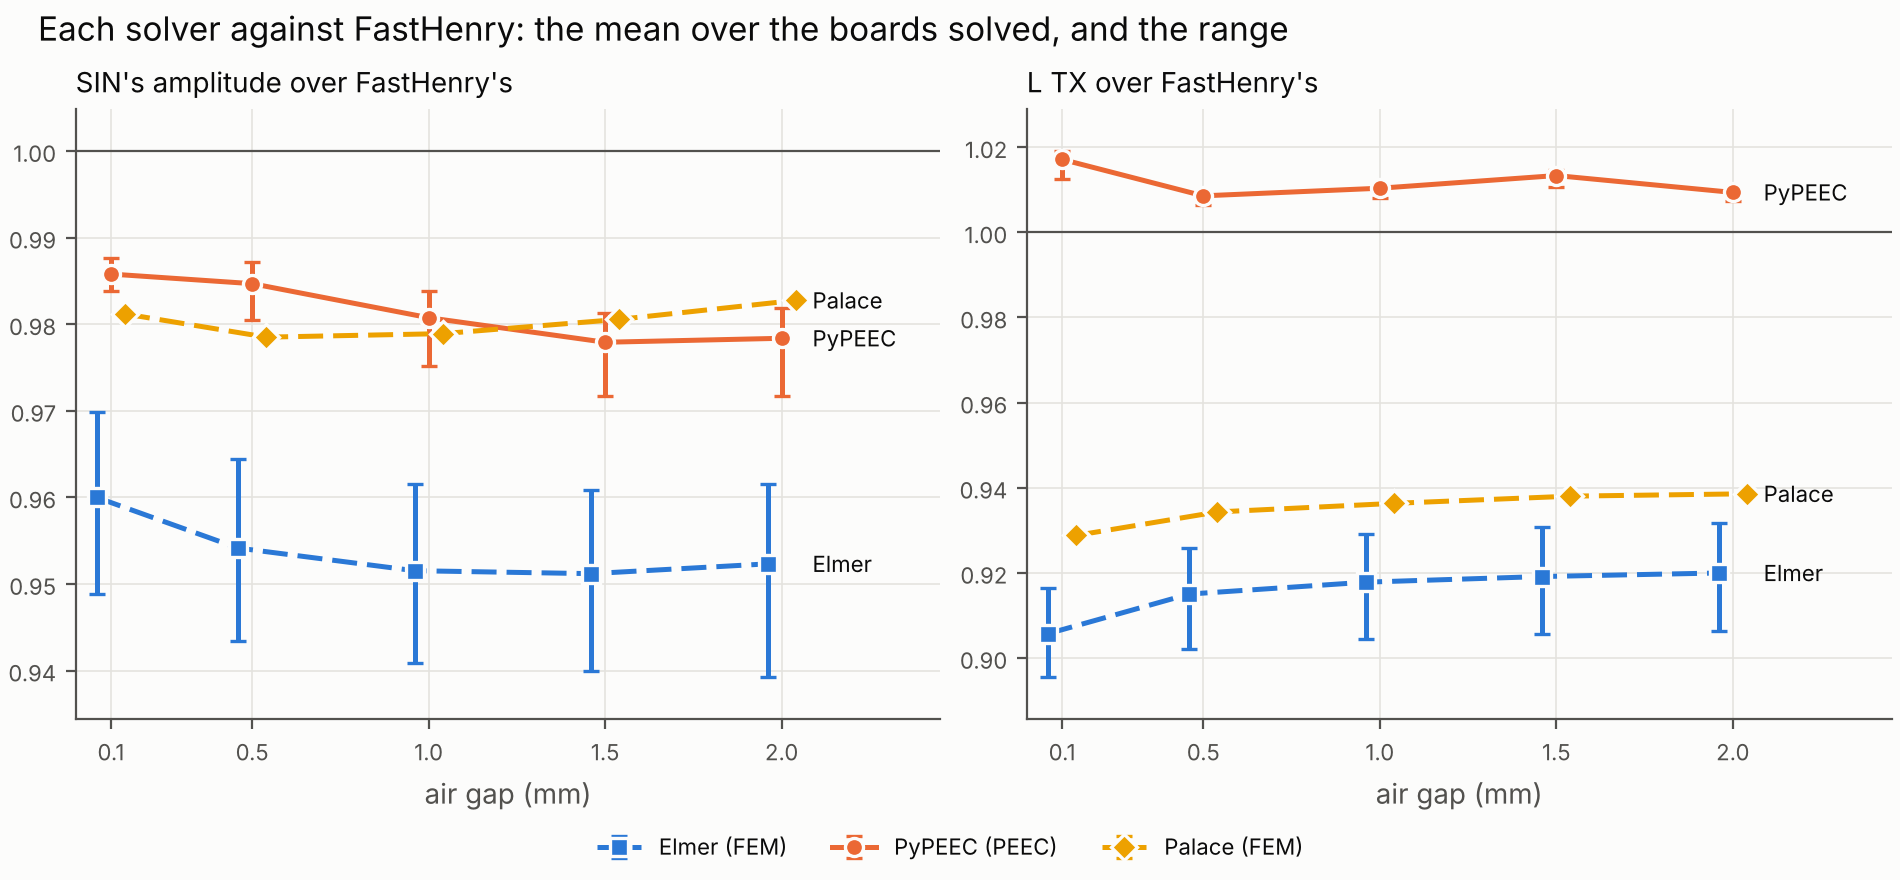
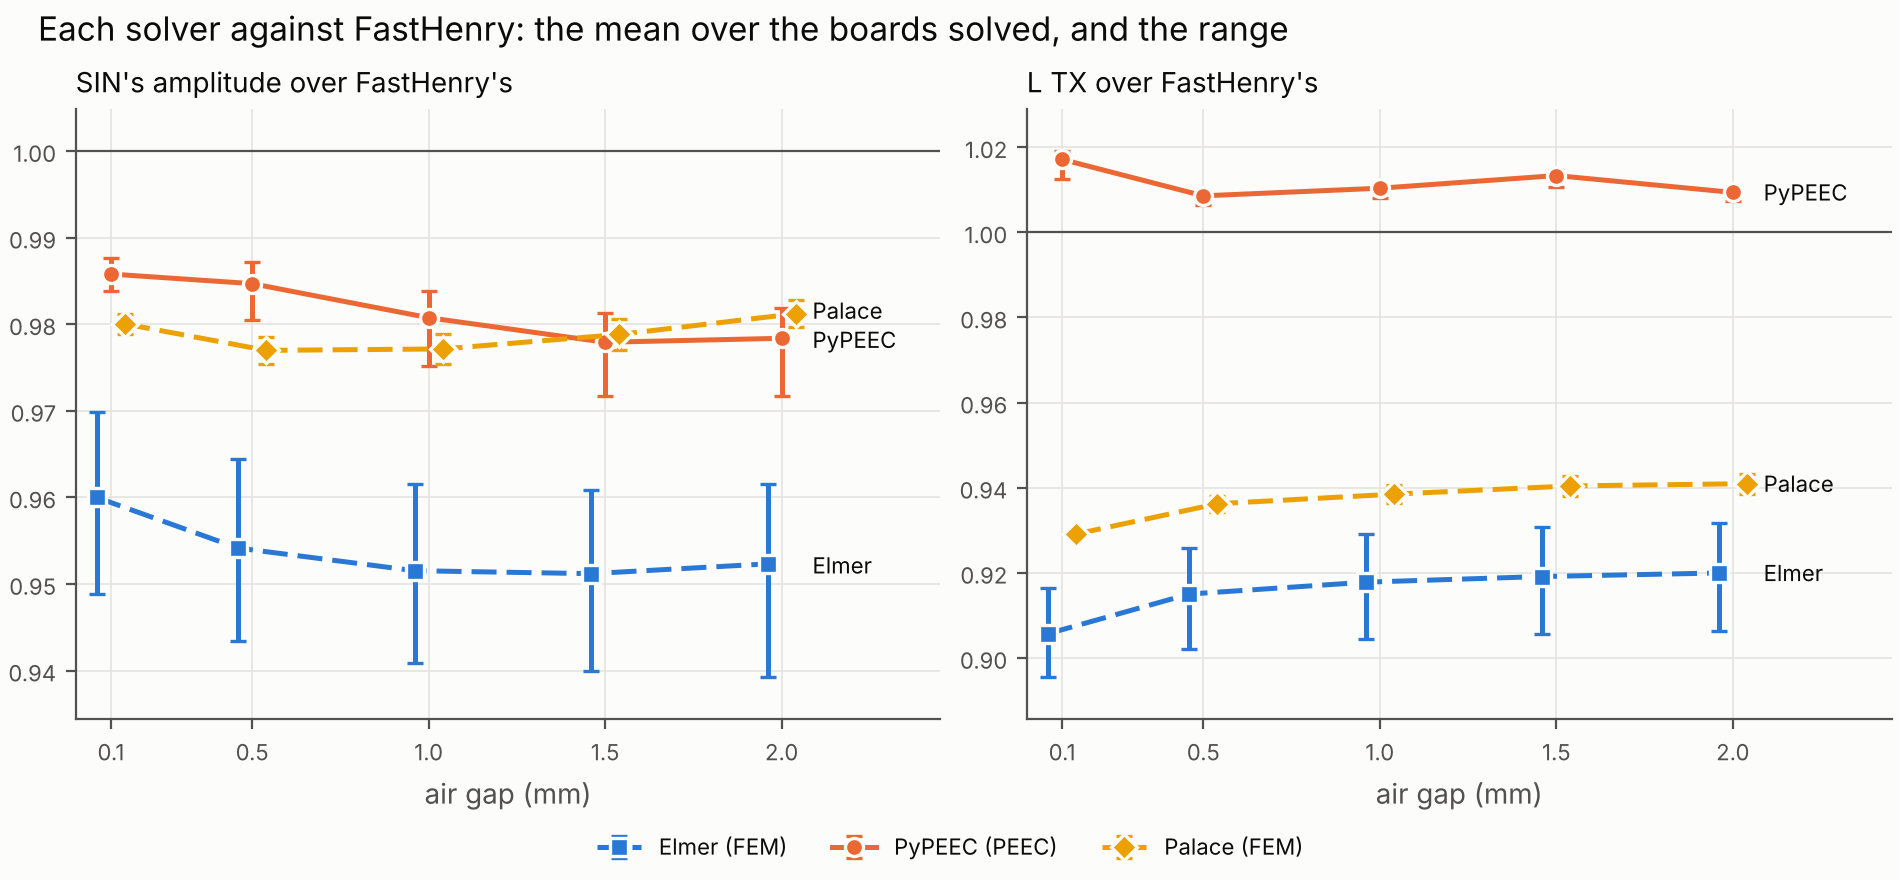
Palace's S0_1x_OD21_2L_tiny_TXtop added

Changed region(s): [[0.5589, 0.5216, 0.9626, 0.6136], [0.0621, 0.3375, 0.4658, 0.4295]]

diff --git a/README.md b/README.md
@@ -7,7 +7,7 @@ KESE exports a KiCad board's copper and stackup for electromagnetic solvers. Fou
 | Elmer | FEM (finite elements, the A-V eddy-current formulation) | `Elmer_Integration` | 6 | 280 | 280 |
 | PyPEEC | PEEC (partial elements on voxels, FFT-accelerated) | `PyPEEC_Integration` | 6 | 280 | 280 |
 | FastHenry | PEEC (partial elements on filaments, direct solve) | `FastHenry_Integration` | 6 | 280 | 280 |
-| Palace | FEM (finite elements, the frequency-domain Maxwell solver) | `Palace_Integration` | 1 (still solving; 5 of 30 gaps) | 40 | 40 |
+| Palace | FEM (finite elements, the frequency-domain Maxwell solver) | `Palace_Integration` | 2 (still solving; 10 of 30 gaps) | 80 | 80 |
 
 Each integration branch keeps its own solver's results, settings and checks, and knows nothing of the others. The numbers here are read from those branches unchanged by `scripts/collect.py`. The two FEM solvers mesh the air around the copper and close it at an outer boundary; the two PEEC solvers model only the copper, and the air's field comes from the free-space formulas, with no mesh and no boundary.
 
@@ -16,7 +16,7 @@ Each integration branch keeps its own solver's results, settings and checks, and
 - **FastHenry is the yardstick.** On the two proof boards it lands within 0.03 % of the reference at 10 kHz, the closest of the four (the table under "The proof boards"). Every ratio below is against FastHenry, board by board and gap by gap.
 - **Elmer** (FEM): the coupling (the amplitude of SIN and COS) is 4.7 % under FastHenry's on average (−6.1 to −3.0 % over the 30 board-gaps both have finished); L TX is 8.4 % under (−10.5 to −6.8 %); the rms angle error is within 0.17° of FastHenry's, 0.05° typically (electrical degrees).
 - **PyPEEC** (PEEC): the coupling (the amplitude of SIN and COS) is 1.9 % under FastHenry's on average (−2.8 to −1.2 % over the 30 board-gaps both have finished); L TX is 1.2 % over (+0.6 to +1.9 %); the rms angle error is within 0.04° of FastHenry's, 0.02° typically (electrical degrees).
-- **Palace** (FEM): the coupling (the amplitude of SIN and COS) is 2.0 % under FastHenry's on average (−2.2 to −1.7 % over the 5 board-gaps both have finished); L TX is 6.5 % under (−7.1 to −6.1 %); the rms angle error is within 0.06° of FastHenry's, 0.02° typically (electrical degrees).
+- **Palace** (FEM): the coupling (the amplitude of SIN and COS) is 2.2 % under FastHenry's on average (−2.5 to −1.7 % over the 10 board-gaps both have finished); L TX is 6.3 % under (−7.1 to −5.7 %); the rms angle error is within 0.06° of FastHenry's, 0.02° typically (electrical degrees).
 
 So the two PEEC solvers agree within about 2 %, and the angle error, which is what a position sensor is for, agrees best of all: it is set by the coils' shapes, which every solver sees alike. The FEM solvers read the coupling and L TX low on the meshes they were run with, by an amount that shrinks as the mesh is refined ("Why they differ" below).
 
@@ -43,31 +43,31 @@ Each solver's value over FastHenry's on the same board and gap: the mean over th
 
 | Air gap | Elmer | PyPEEC | Palace |
 |---|---|---|---|
-| 0.1 mm | 0.960 (0.949 to 0.970) | 0.986 (0.984 to 0.988) | 0.981 (0.981 to 0.981) |
-| 0.5 mm | 0.954 (0.943 to 0.964) | 0.985 (0.981 to 0.987) | 0.979 (0.979 to 0.979) |
-| 1 mm | 0.952 (0.941 to 0.962) | 0.981 (0.975 to 0.984) | 0.979 (0.979 to 0.979) |
-| 1.5 mm | 0.951 (0.940 to 0.961) | 0.978 (0.972 to 0.981) | 0.981 (0.981 to 0.981) |
-| 2 mm | 0.952 (0.939 to 0.962) | 0.978 (0.972 to 0.982) | 0.983 (0.983 to 0.983) |
+| 0.1 mm | 0.960 (0.949 to 0.970) | 0.986 (0.984 to 0.988) | 0.980 (0.979 to 0.981) |
+| 0.5 mm | 0.954 (0.943 to 0.964) | 0.985 (0.981 to 0.987) | 0.977 (0.975 to 0.979) |
+| 1 mm | 0.952 (0.941 to 0.962) | 0.981 (0.975 to 0.984) | 0.977 (0.975 to 0.979) |
+| 1.5 mm | 0.951 (0.940 to 0.961) | 0.978 (0.972 to 0.981) | 0.979 (0.977 to 0.981) |
+| 2 mm | 0.952 (0.939 to 0.962) | 0.978 (0.972 to 0.982) | 0.981 (0.980 to 0.983) |
 
 **L TX, mean over the turn**
 
 | Air gap | Elmer | PyPEEC | Palace |
 |---|---|---|---|
 | 0.1 mm | 0.906 (0.895 to 0.916) | 1.017 (1.013 to 1.019) | 0.929 (0.929 to 0.929) |
-| 0.5 mm | 0.915 (0.902 to 0.926) | 1.009 (1.006 to 1.010) | 0.934 (0.934 to 0.934) |
-| 1 mm | 0.918 (0.904 to 0.929) | 1.010 (1.008 to 1.011) | 0.936 (0.936 to 0.936) |
-| 1.5 mm | 0.919 (0.906 to 0.931) | 1.013 (1.011 to 1.015) | 0.938 (0.938 to 0.938) |
-| 2 mm | 0.920 (0.906 to 0.932) | 1.009 (1.007 to 1.010) | 0.939 (0.939 to 0.939) |
+| 0.5 mm | 0.915 (0.902 to 0.926) | 1.009 (1.006 to 1.010) | 0.936 (0.934 to 0.938) |
+| 1 mm | 0.918 (0.904 to 0.929) | 1.010 (1.008 to 1.011) | 0.938 (0.936 to 0.941) |
+| 1.5 mm | 0.919 (0.906 to 0.931) | 1.013 (1.011 to 1.015) | 0.940 (0.938 to 0.943) |
+| 2 mm | 0.920 (0.906 to 0.932) | 1.009 (1.007 to 1.010) | 0.941 (0.939 to 0.943) |
 
 **R TX, mean over the turn**
 
 | Air gap | Elmer | PyPEEC | Palace |
 |---|---|---|---|
 | 0.1 mm | 1.057 (1.053 to 1.073) | 1.132 (1.128 to 1.136) | 1.071 (1.071 to 1.071) |
-| 0.5 mm | 1.049 (1.046 to 1.058) | 1.136 (1.129 to 1.141) | 1.071 (1.071 to 1.071) |
-| 1 mm | 1.048 (1.044 to 1.055) | 1.139 (1.131 to 1.144) | 1.072 (1.072 to 1.072) |
-| 1.5 mm | 1.048 (1.044 to 1.055) | 1.141 (1.133 to 1.147) | 1.073 (1.073 to 1.073) |
-| 2 mm | 1.048 (1.044 to 1.056) | 1.143 (1.135 to 1.148) | 1.073 (1.073 to 1.073) |
+| 0.5 mm | 1.049 (1.046 to 1.058) | 1.136 (1.129 to 1.141) | 1.069 (1.066 to 1.071) |
+| 1 mm | 1.048 (1.044 to 1.055) | 1.139 (1.131 to 1.144) | 1.069 (1.066 to 1.072) |
+| 1.5 mm | 1.048 (1.044 to 1.055) | 1.141 (1.133 to 1.147) | 1.071 (1.068 to 1.073) |
+| 2 mm | 1.048 (1.044 to 1.056) | 1.143 (1.135 to 1.148) | 1.071 (1.068 to 1.073) |
 
 ## Board by board
 
@@ -107,16 +107,17 @@ At 1 mm (the curves: [charts/S0_1x_OD21_2L_tiny_TXtop_1mm.webp](charts/S0_1x_OD2
 | Elmer | 2.346 | 2.346 | 111.6 | 121.2 | 265 | 0.423 | 0.579 | 8 |
 | PyPEEC | 2.429 | 2.435 | 123.4 | 133.7 | 290 | 0.445 | 0.562 | 8 |
 | FastHenry | 2.481 | 2.486 | 122.1 | 132.5 | 254 | 0.413 | 0.517 | 8 |
+| Palace | 2.420 | 2.424 | 114.8 | 125.1 | 270 | 0.440 | 0.576 | 8 |
 
 SIN's amplitude (nH) at every gap:
 
-| Air gap | Elmer | PyPEEC | FastHenry |
-|---|---|---|---|
-| 0.1 mm | 5.060 | 5.229 | 5.314 |
-| 0.5 mm | 3.708 | 3.848 | 3.915 |
-| 1 mm | 2.346 | 2.429 | 2.481 |
-| 1.5 mm | 1.486 | 1.533 | 1.570 |
-| 2 mm | 0.965 | 0.993 | 1.016 |
+| Air gap | Elmer | PyPEEC | FastHenry | Palace |
+|---|---|---|---|---|
+| 0.1 mm | 5.060 | 5.229 | 5.314 | 5.202 |
+| 0.5 mm | 3.708 | 3.848 | 3.915 | 3.818 |
+| 1 mm | 2.346 | 2.429 | 2.481 | 2.420 |
+| 1.5 mm | 1.486 | 1.533 | 1.570 | 1.534 |
+| 2 mm | 0.965 | 0.993 | 1.016 | 0.995 |
 
 ### OD22 TXtop: 22 mm, 2 TX turns on top
 
@@ -246,7 +247,7 @@ Each branch records the wall time and the peak memory of every solve. They all r
 | Elmer | 202 | 115 to 583 | 13.1 to 13.3 |
 | PyPEEC | 288 | 138 to 678 | 1.3 to 3.5 |
 | FastHenry | 180 | 78 to 279 | 0.7 to 1.1 |
-| Palace | 210 | 121 to 305 | 5.9 to 9.3 |
+| Palace | 186 | 117 to 305 | 5.9 to 9.7 |
 
 ## The data
 
